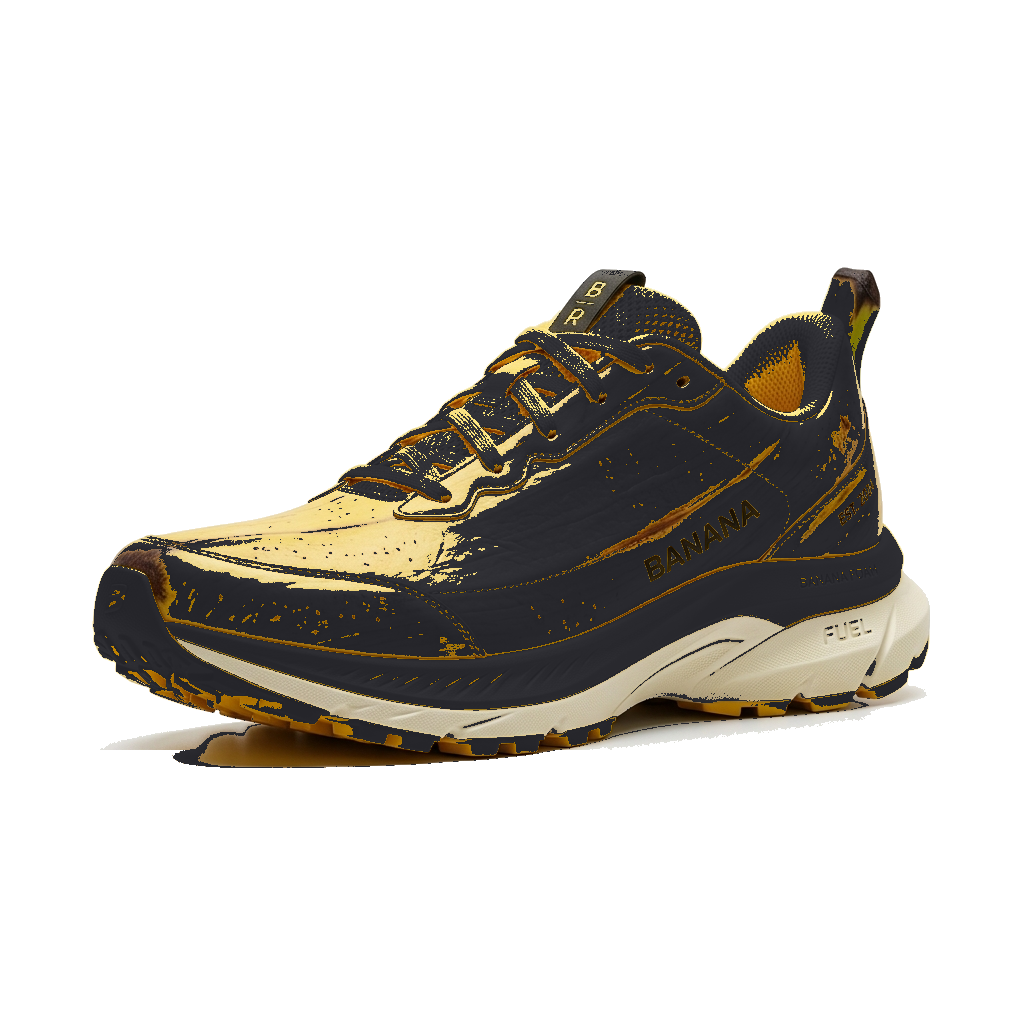
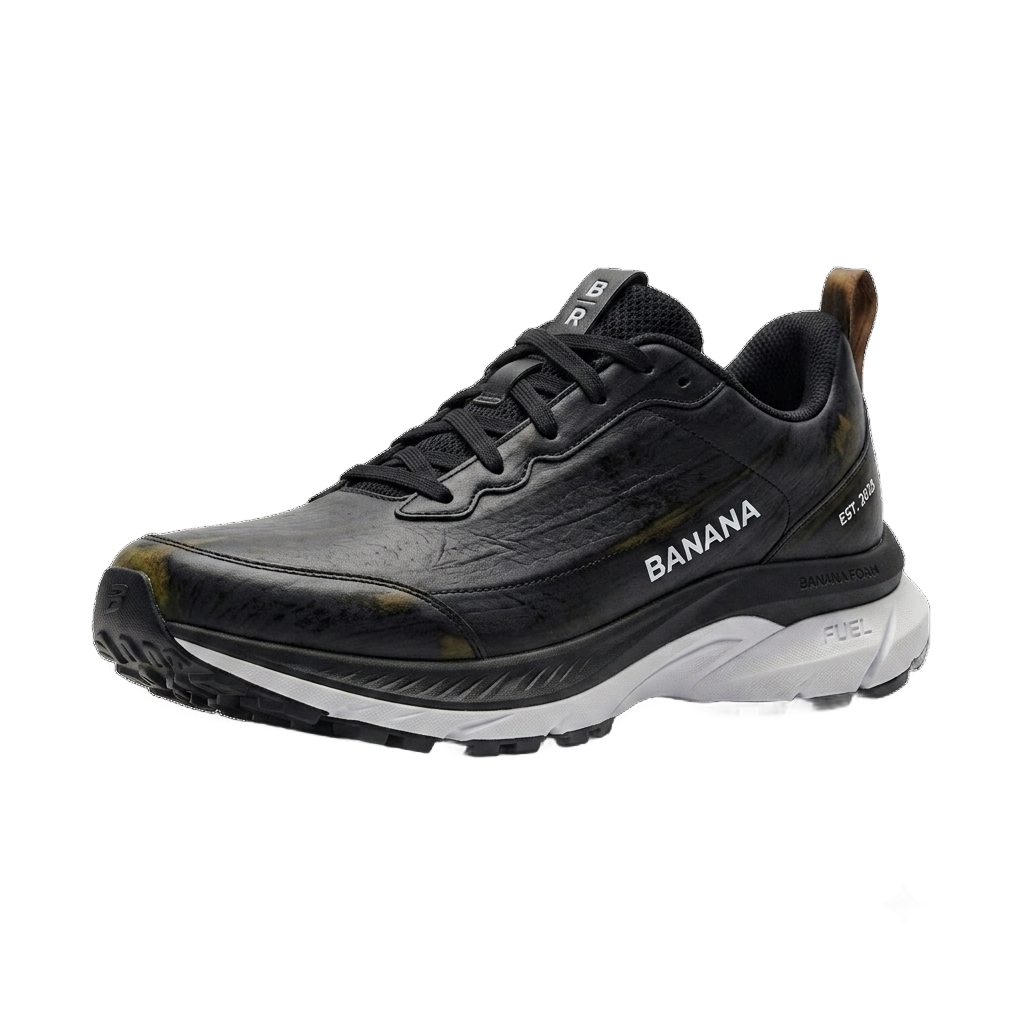
Updates

Changed region(s): [[0.0625, 0.25, 0.9062, 0.75], [0.5625, 0.5938, 0.625, 0.625]]

diff --git a/index.html b/index.html
@@ -9,8 +9,8 @@
     <link rel="preconnect" href="https://fonts.gstatic.com" crossorigin />
     <link href="https://fonts.googleapis.com/css2?family=Archivo:wght@400;500;600;700;800&family=Inter:wght@400;500;600;700&display=swap" rel="stylesheet" />
     <title>Voltrace — Built for the miles that matter</title>
-    <script type="module" crossorigin src="/voltrace/assets/index-I5AlJ821.js"></script>
-    <link rel="stylesheet" crossorigin href="/voltrace/assets/index-D0hyoWHk.css">
+    <script type="module" crossorigin src="/voltrace/assets/index-qki7qAw9.js"></script>
+    <link rel="stylesheet" crossorigin href="/voltrace/assets/index-BQUq9ywC.css">
   </head>
   <body>
     <div id="root"></div>